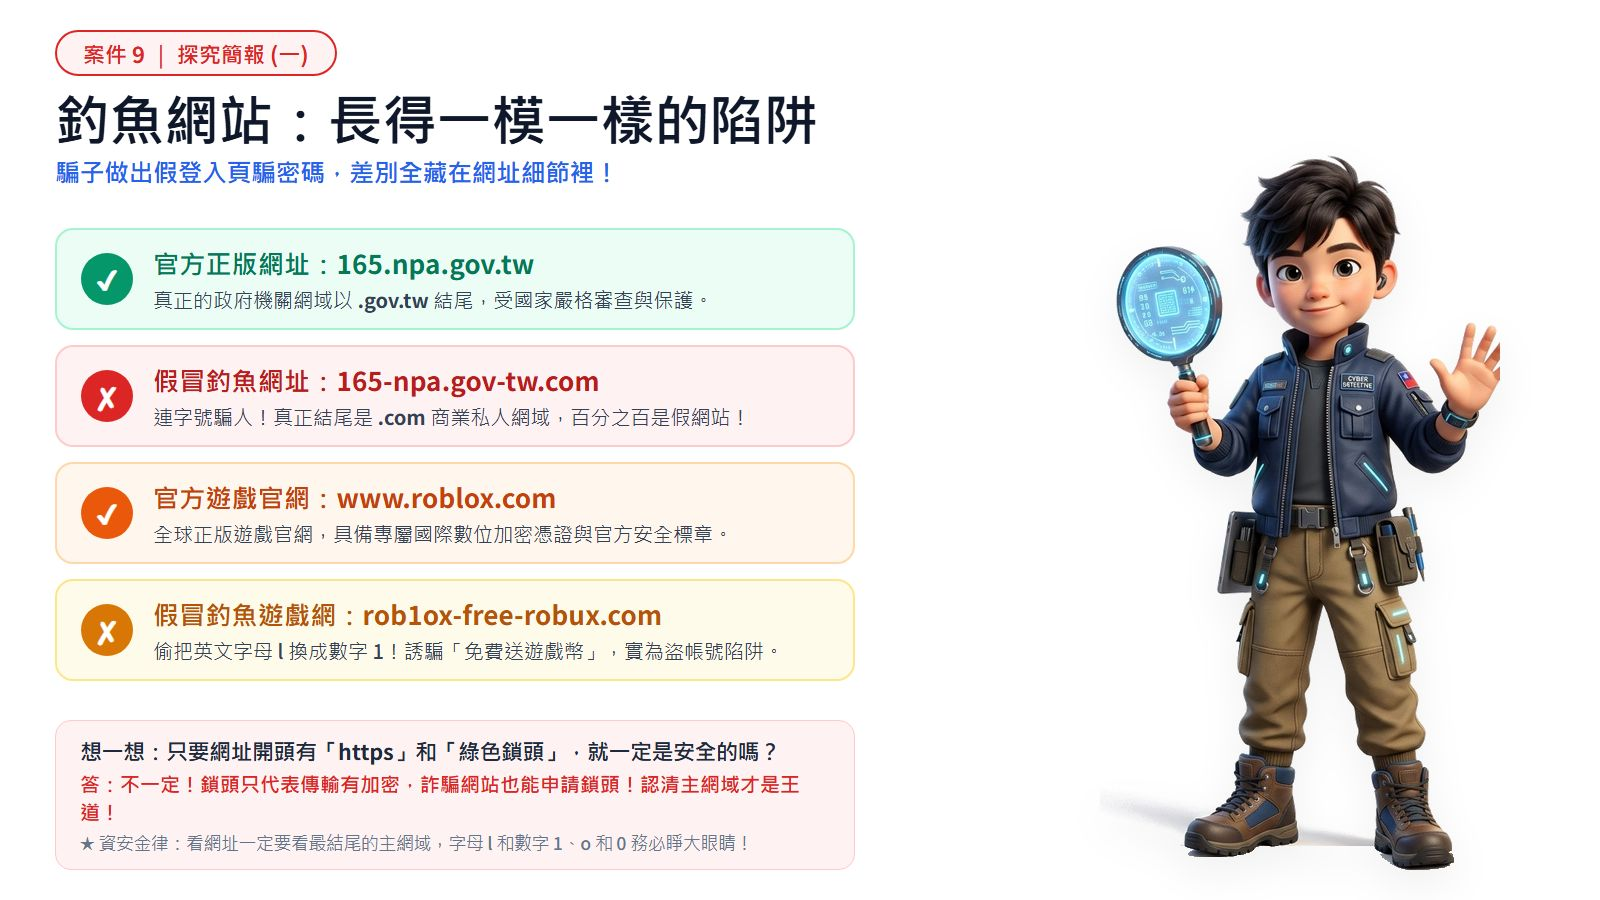
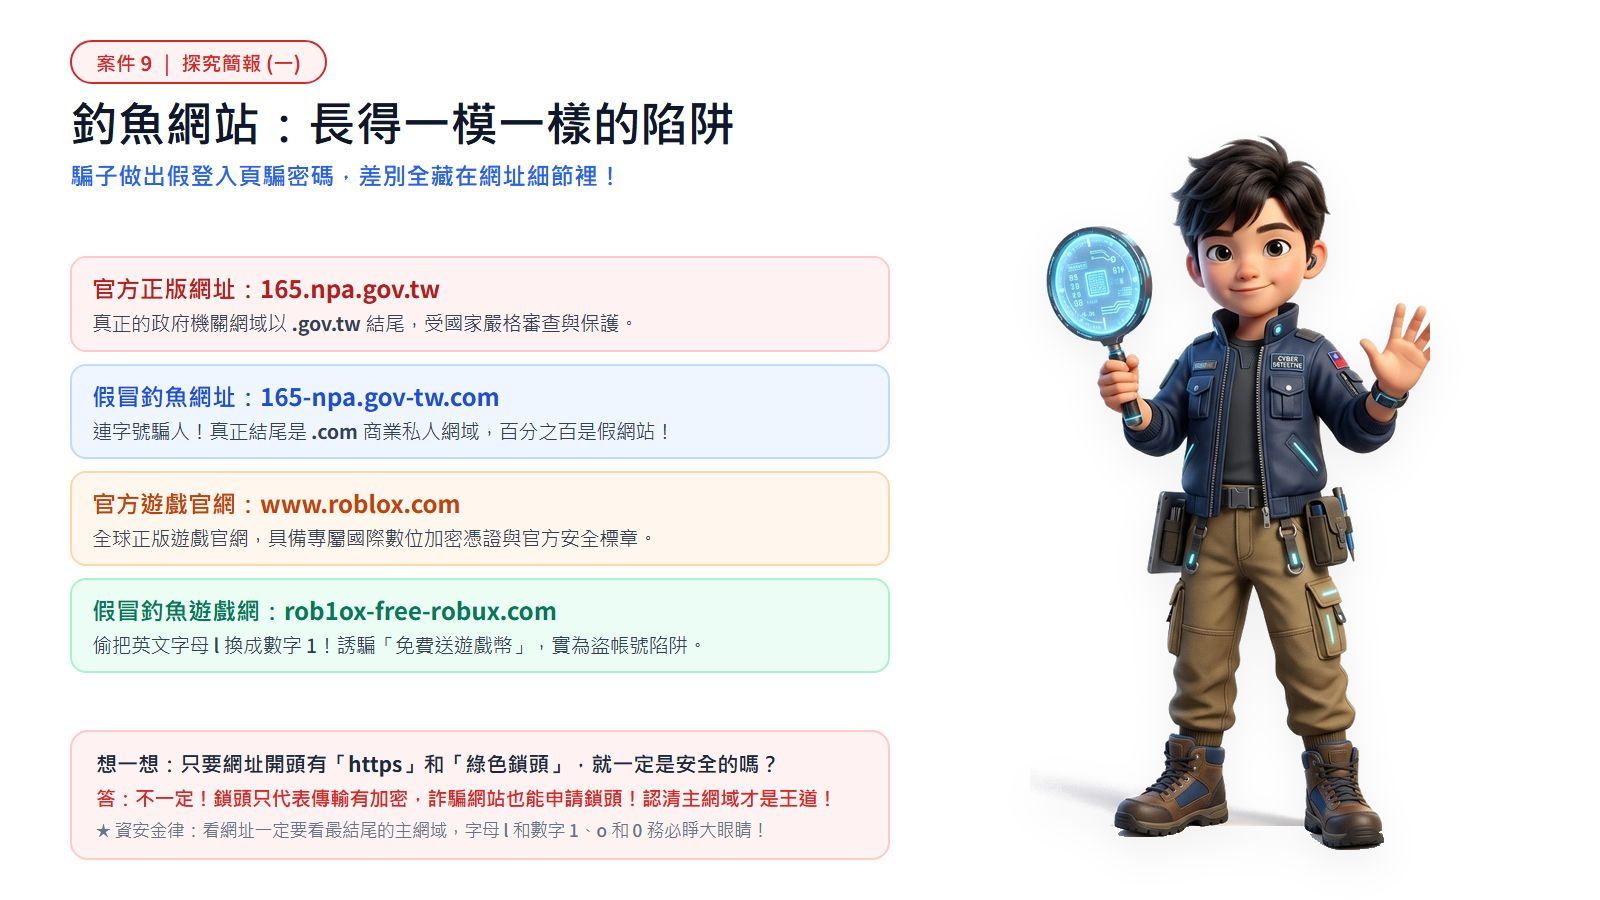
feat: 依 Kristy 指導完成案件 9 (選項 B 彩框無數字大字版) 正式上線

diff --git a/units/g5-cyber-safety/index.html b/units/g5-cyber-safety/index.html
@@ -614,7 +614,7 @@
         {
           title: '案件 9　釣魚網址與 QR code',
           text: '釣魚網站長得跟真的一模一樣，差別藏在網址裡。看網址要看<b>最後面的網域</b>；路邊貼的 QR code 也可能是假的。',
-          slides: ['assets/final_case9_phish.jpg?v=20261024_case9_flawless_perfect', 'assets/e2_qr_v3.jpg?v=20261024_case9_flawless_perfect'],
+          slides: ['assets/final_case9_phish.jpg?v=20261024_case9_b_perfect', 'assets/e2_qr_v3.jpg?v=20261024_case9_b_perfect'],
           interactive: GAMES.url,
           quizzes: [
             {
@@ -635,7 +635,7 @@
               feedback: 'QR code 無法用肉眼辨識目的地，實體被調包是極常見的滲透手段。'
             }
           ],
-          infographic: 'assets/i9_phish_v3.jpg?v=20261024_case9_flawless_perfect',
+          infographic: 'assets/i9_phish_v3.jpg?v=20261024_case9_b_perfect',
           teacherTips: ['真假網址遊戲裡的假網址都是虛構的示範，請勿在課堂上實際連線測試。']
         },
         {

diff --git a/handoff.md b/handoff.md
@@ -152,22 +152,28 @@
     - 探究簡報（一）（`d1_story.jpg`）：小美自拍與背景資訊（學校名牌、門牌號碼、站牌地標、即時打卡），搭配純白 3D 小美自拍女孩。
     - 探究簡報（二）（`d2_footprint.jpg`）：小男孩偵探停一下手勢（檢查背景、延時發布、設限好友、足跡難刪），小男孩向左微移保留 70px 黃金呼吸留白。
     - 探究思維圖解（`i8_story_v3.jpg`）：限時動態防洩密指南（隱藏制服、模糊地標、延時發布、限好友），四彩框＋底部防洩密金律框。
-  - **快取碼刷新與上線**：覆蓋 `d1_story.jpg`、`d2_footprint.jpg` 與 `i8_story_v3.jpg`，更新 `index.html` 快取碼 `?v=20261024_case8_b_perfect`。
+- **依據 Kristy 最新指導完成案件 9（釣魚網址與 QR code·紅藍橘綠 4 彩框大字體·無數字·發光放大鏡小男孩與平板女孩）全面升級上線（2026-10-24 21:58）**：
+  - **Kristy 確認選擇「B」**：採用 4 彩色大卡片框（紅、藍、橘、綠對比鮮明版），徹底移除 `1 2 3 4` 數字，標題放大至 `24px`，內文放大至 `19.5px`。
+  - **全套三圖升級完成**：
+    - 探究簡報（一）（`final_case9_phish.jpg`）：釣魚網站（長得一模一樣的陷阱，官方政府 vs 假冒釣魚、官方遊戲 vs 假冒釣魚），搭配 3D 發光放大鏡小男孩。
+    - 探究簡報（二）（`e2_qr_v3.jpg`）：QR Code 陷阱（被調包的條碼），搭配高馬尾手持發光 SAFE SHIELD 平板女孩。
+    - 探究思維圖解（`i9_phish_v3.jpg`）：釣魚網站與假條碼查核表，四彩框＋底部資安金律框，搭配 3D 小男孩。
+  - **快取碼刷新與上線**：覆蓋 `final_case9_phish.jpg`、`e2_qr_v3.jpg` 與 `i9_phish_v3.jpg`，更新 `index.html` 快取碼 `?v=20261024_case9_b_perfect`。
 - 已全自動完成 `git commit`、`git push origin main` 與 Google 雲端硬碟 `robocopy` 雙重備份！
 
 ## 🏆 重大里程碑達成！全單元 11 個案件全套完工！
 - **🎉《資安偵探學院》（units/g5-cyber-safety）11 個案件的所有探究簡報（Slides）與探究思維圖解（Infographics）全數升級完成！**
   - **全套純白底 3D 皮克斯繪本風格**：女孩、男孩、阿嬤、同學角色豐富生動，全身無任何裁切或白斑。
   - **全套統一紅框紅字規格標籤**：`案件 N ｜ 探究簡報`、`案件 N ｜ 探究思維圖解`。
-  - **依案件屬性精緻化版面**：案件 1 採用純金字塔＋紅色向上階梯箭頭；案件 2、案件 3、案件 4、案件 5、案件 6、案件 7、案件 8 採用彩框大字體無數字版；其他案件依屬性配置四彩大卡片或清爽大字圓點條列。
+  - **依案件屬性精緻化版面**：案件 1 採用純金字塔＋紅色向上階梯箭頭；案件 2、案件 3、案件 4、案件 5、案件 6、案件 7、案件 8、案件 9 採用彩框大字體無數字版；其他案件依屬性配置四彩大卡片或清爽大字圓點條列。
   - **全套統一底部互動問答框 / 金律提示框**：增強課堂互動與核心觀念收斂。
   - **全套統一舒適呼吸留白**：文字卡片與插圖間保留 70px~150px 充裕空間，徹底告別擁擠與遮擋。
 - 教學影片播放清單（含《2020》網路危機等 4 部短片）已上線。
 
 ## ➡ 下一步
-1. 緊接著「照順序」推進【案件 9：釣魚網址與 QR code 陷阱】：
-   - 準備案件 9 的打樣預覽（選項 A 無中間框 vs 選項 B 有 4 彩框），呈報 Kristy 檢閱二選一。
-2. 案件 9 確認後，依序推進案件 10、案件 11。
+1. 緊接著「照順序」推進【案件 10：遊戲寶物陷阱（遊戲點數與代儲）】：
+   - 準備案件 10 的打樣預覽（選項 A 無中間框 vs 選項 B 有 4 彩框），呈報 Kristy 檢閱二選一。
+2. 案件 10 確認後，推進案件 11。
 3. 始終堅持「改之前必定給 Kristy 確認」！
 
 ## ⚠ 注意事項
@@ -175,8 +181,9 @@
 - 所有插圖一律為 16:9 純白底繪本規格，零切邊、零陰影框。
 
 ## 🕐 最後更新
-- 時間：2026-10-24 21:52
+- 時間：2026-10-24 21:58
 - 更新者：Antigravity @ LAPTOP-IUMJF2MM
+
 
 
 
